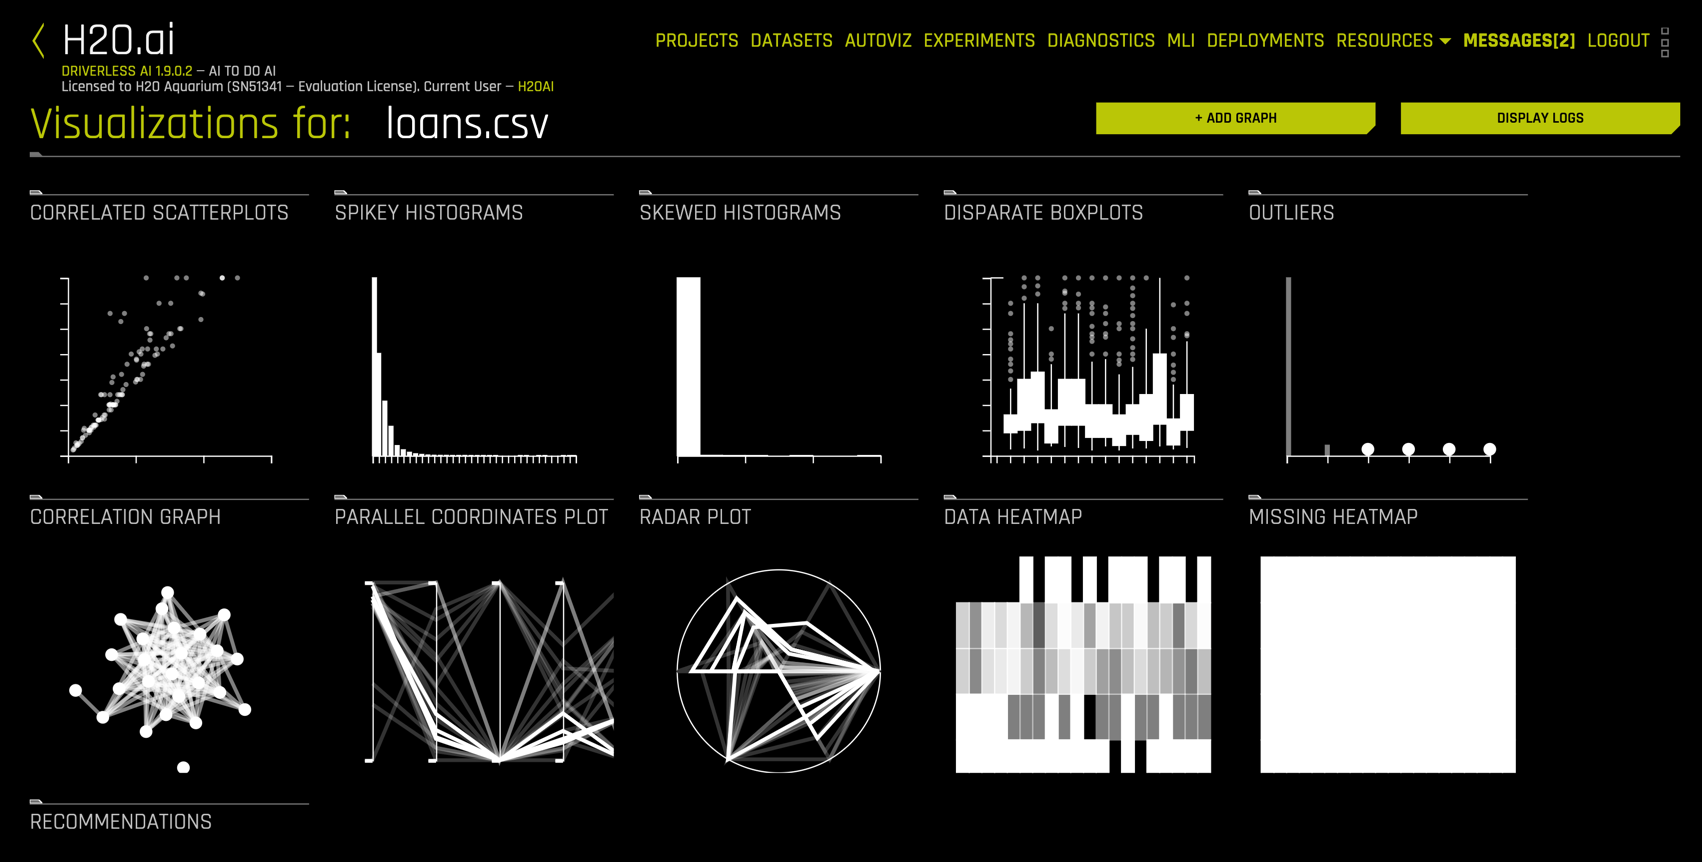
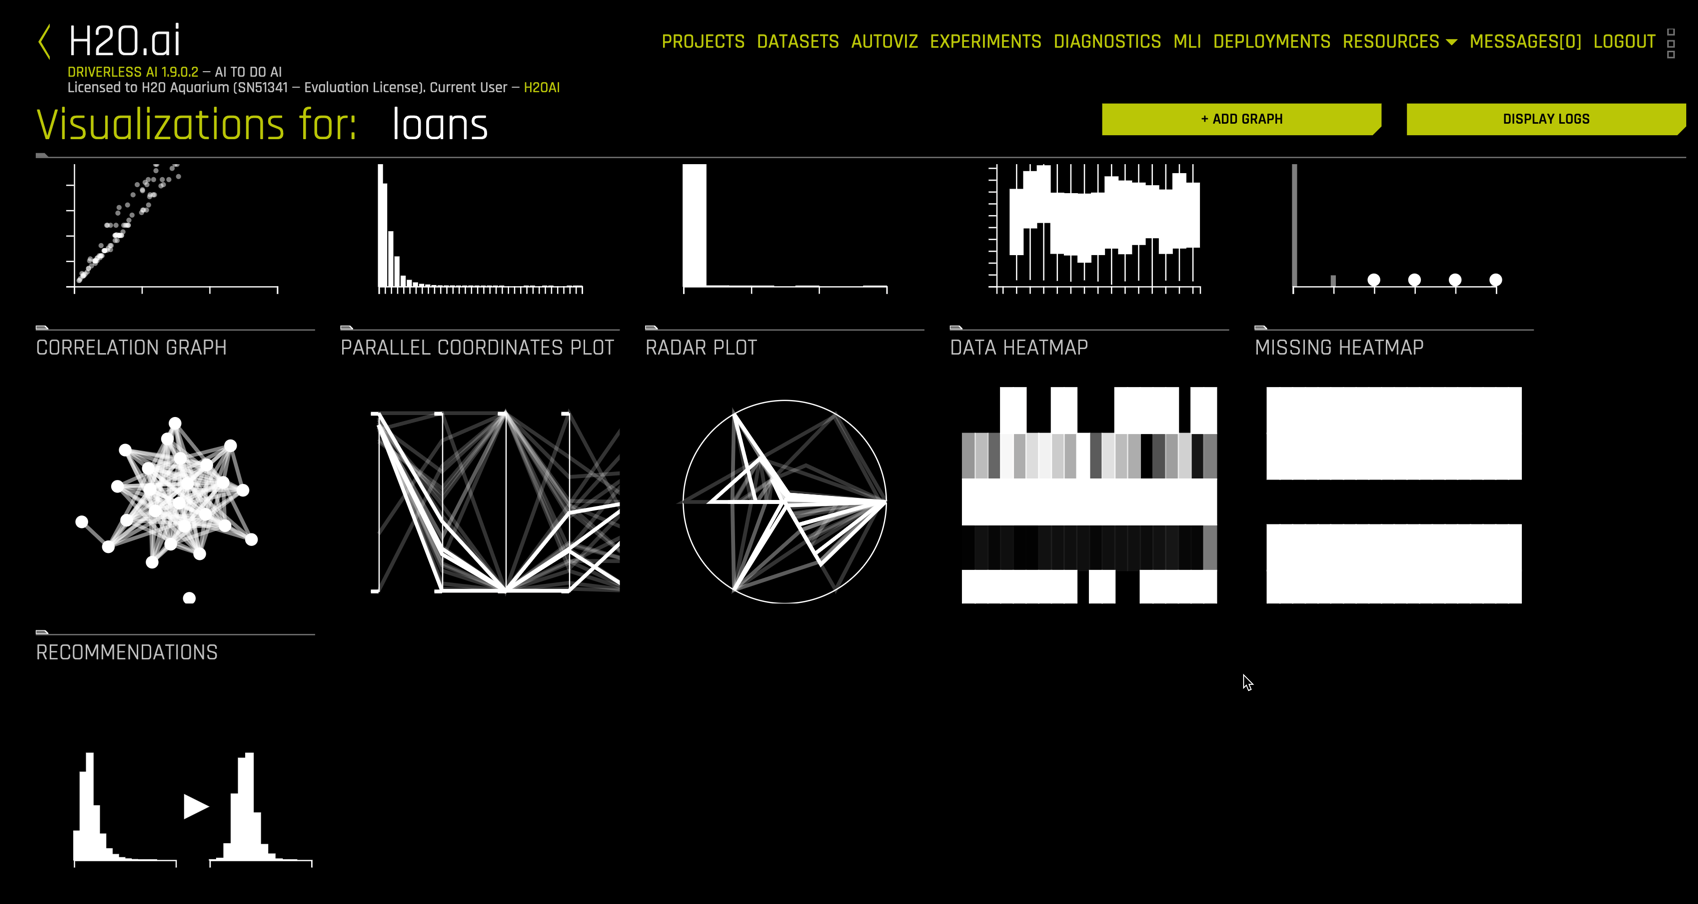
Completed step4

diff --git a/step4.md b/step4.md
@@ -1,17 +1,32 @@
-## Step 4: AutoViz
+## Step 4: Automatically Visualizing Datasets
 
-More about AutoViz here.
+`Autoviz` in Driverless AI automatically creates a variety of classical and interactive graphs that are useful for understanding the data to be used in building a model for prediction. `Autoviz` is unique in that it only shows the graphs that are applicable based on the information in your data.
 
-Right click the dataset to launch AutoViz
+Right click the dataset name and select `VISUALIZE` to launch AutoViz
 
 ![](images/04_autoviz_00.png)
-![](images/04_autoviz_01.png)
+
+The available visualizations for the `loans` data are shown below.
+
 ![](images/04_autoviz_02.png)
+
+Selecting the `SKEWED HISTOGRAMS` section, for example, yields a series of histograms on only the columns that are sufficiently skewed. We show one below for the `credit_length` column. 
+
 ![](images/04_autoviz_03.png)
-![](images/04_autoviz_04.png)
+
+Clicking the left and right navigation arrows allows you to inspect additional variables, ordered by their skewness.
+
+Close the `SKEWED HISTOGRAMS` display and scroll down to see `RECOMMENDATIONS`.
+
+![](images/04_autoviz_01.png)
+
+Selecting `RECOMMENDATIONS` produces
+
 ![](images/04_autoviz_05.png)
 
+The philosophy underlying the automatic visualizations is to make it easy for the data scientist to quickly understand their data fields, but it does not make decisions for the data scientist. 
 
+There are a number of additional useful graphs that can be navigated to fully understand your data prior to modeling. In addition, one can create their own custom graph.
 
 
 
